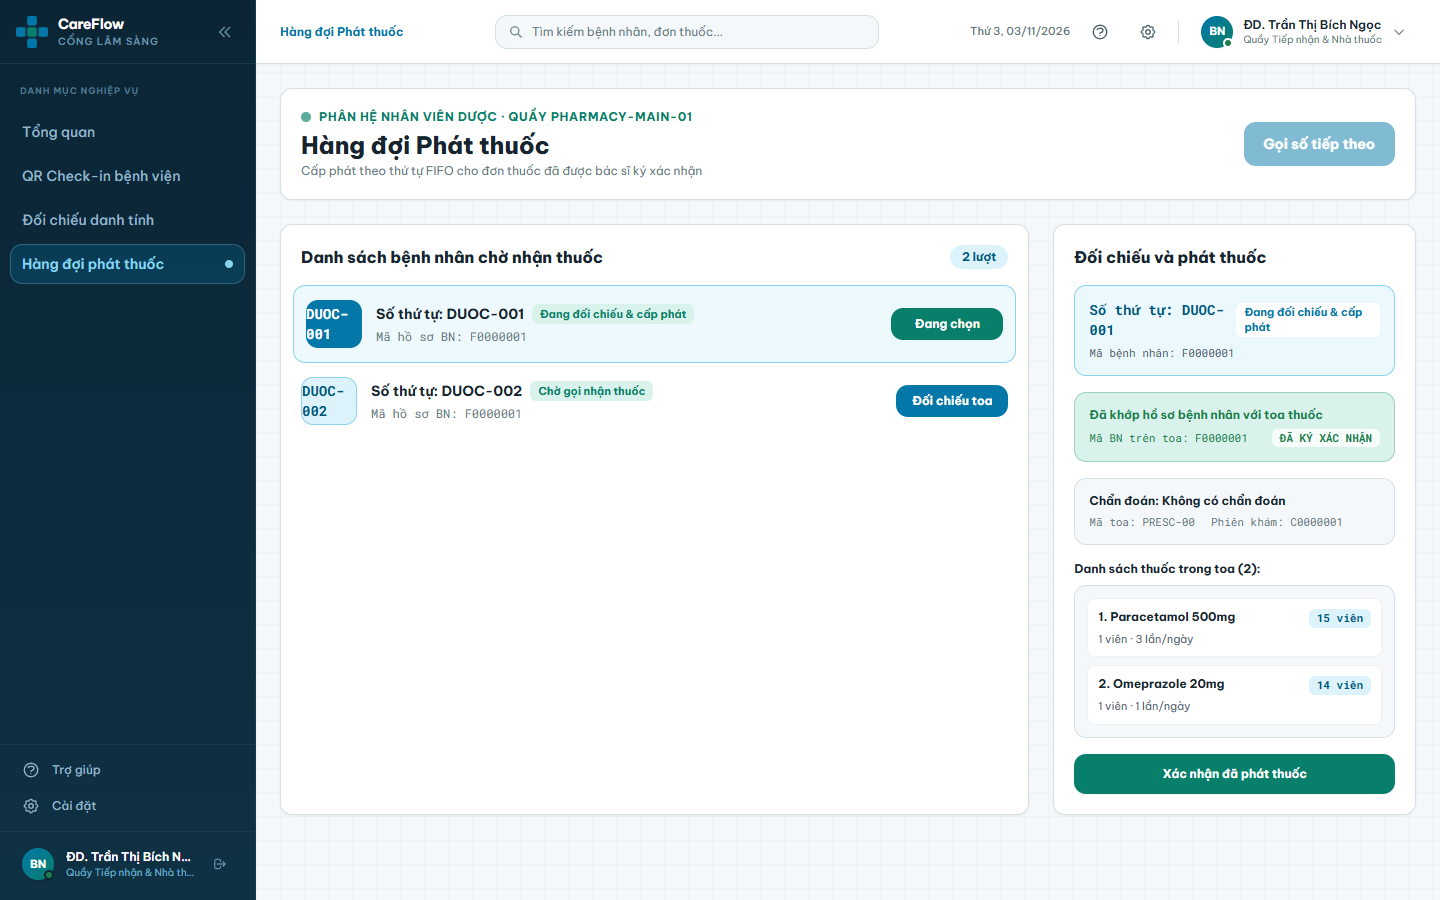
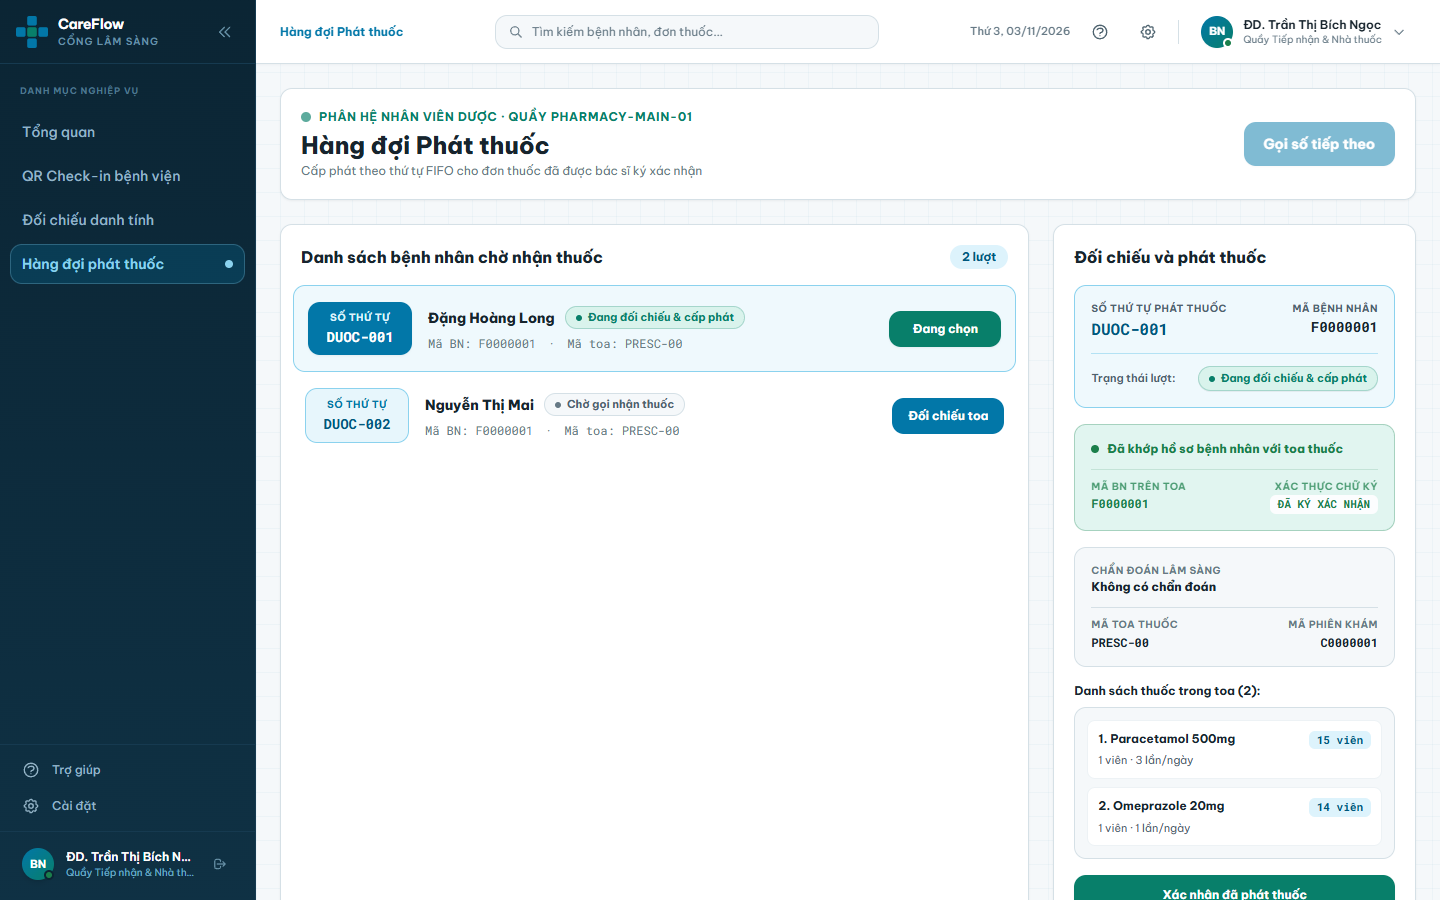
style(pharmacy): refine queue ticket badge and verification panel layout

diff --git a/frontend/doctor-web/src/components/queue/PharmacyVerificationPanel.tsx b/frontend/doctor-web/src/components/queue/PharmacyVerificationPanel.tsx
@@ -35,18 +35,51 @@ export default function PharmacyVerificationPanel({
       <h2 className="text-base font-extrabold text-[#17242D]">Đối chiếu và phát thuốc</h2>
       {activeEntry ? (
         <div className="space-y-4 text-xs">
-          <div className="rounded-xl border border-[#8BD2EE] bg-[#DDF3FC]/60 p-3.5">
-            <div className="flex items-center justify-between gap-2">
-              <p className="font-mono text-sm font-extrabold text-[#00577E]">
-                Số thứ tự: {activeEntry.queueNumber}
-              </p>
-              <span className="rounded-md bg-white px-2 py-0.5 text-[11px] font-bold text-[#0277A8]">
+          <div className="rounded-xl border border-[#8BD2EE] bg-[#DDF3FC]/45 p-4">
+            <div className="grid grid-cols-2 gap-3 border-b border-[#8BD2EE]/60 pb-3">
+              <div>
+                <p className="text-[10px] font-bold uppercase tracking-wider text-[#4D626E]">
+                  Số thứ tự phát thuốc
+                </p>
+                <p className="mt-0.5 font-mono text-base font-extrabold text-[#00577E] whitespace-nowrap">
+                  {activeEntry.queueNumber}
+                </p>
+              </div>
+              <div className="text-right">
+                <p className="text-[10px] font-bold uppercase tracking-wider text-[#4D626E]">
+                  Mã bệnh nhân
+                </p>
+                <p
+                  className="mt-0.5 font-mono text-sm font-extrabold text-[#17242D] whitespace-nowrap"
+                  title={activeEntry.patientId}
+                >
+                  {activeEntry.patientId.slice(0, 8).toUpperCase()}
+                </p>
+              </div>
+            </div>
+            <div className="mt-3 flex items-center justify-between gap-2">
+              <span className="text-[11px] font-semibold text-[#4D626E]">Trạng thái lượt:</span>
+              <span
+                className={`inline-flex items-center gap-1.5 rounded-full px-2.5 py-1 text-[11px] font-bold whitespace-nowrap shadow-2xs ${
+                  activeEntry.queueStatus === "IN_PROGRESS"
+                    ? "border border-[#087F6A]/25 bg-[#D9F3EC] text-[#087F6A]"
+                    : activeEntry.queueStatus === "CALLED"
+                      ? "border border-[#8BD2EE] bg-white text-[#0277A8]"
+                      : "border border-[#D5E0E6] bg-white text-[#4D626E]"
+                }`}
+              >
+                <span
+                  className={`h-1.5 w-1.5 rounded-full ${
+                    activeEntry.queueStatus === "IN_PROGRESS"
+                      ? "bg-[#087F6A]"
+                      : activeEntry.queueStatus === "CALLED"
+                        ? "bg-[#0277A8]"
+                        : "bg-[#667985]"
+                  }`}
+                />
                 {pharmacyStatusLabel(activeEntry.queueStatus)}
               </span>
             </div>
-            <p className="mt-1.5 font-mono text-[11px] text-[#4D626E]" title={activeEntry.patientId}>
-              Mã bệnh nhân: {activeEntry.patientId.slice(0, 8).toUpperCase()}
-            </p>
           </div>
 
           {isLoadingPrescription ? (
@@ -60,40 +93,81 @@ export default function PharmacyVerificationPanel({
           ) : activePrescription ? (
             <>
               <div
-                className={`rounded-xl border p-3.5 ${
+                className={`rounded-xl border p-4 ${
                   activePatientMatches
-                    ? "border-[#1B7F4B]/30 bg-[#D9F3EC] text-[#1B7F4B]"
+                    ? "border-[#1B7F4B]/30 bg-[#D9F3EC]/80 text-[#1B7F4B]"
                     : "border-[#BA1A1A]/30 bg-[#BA1A1A]/10 text-[#BA1A1A]"
                 }`}
               >
-                <p className="font-bold">
-                  {activePatientMatches
-                    ? "Đã khớp hồ sơ bệnh nhân với toa thuốc"
-                    : "Không khớp mã bệnh nhân"}
-                </p>
-                <div className="mt-1.5 flex flex-wrap items-center justify-between gap-2 text-[11px]">
-                  <span className="font-mono" title={activePrescription.patientId}>
-                    Mã BN trên toa: {activePrescription.patientId.slice(0, 8).toUpperCase()}
-                  </span>
-                  <span className="rounded-md bg-white/80 px-2 py-0.5 font-mono font-bold">
-                    {activePrescription.status === "CONFIRMED"
-                      ? "ĐÃ KÝ XÁC NHẬN"
-                      : activePrescription.status}
-                  </span>
+                <div className="flex items-center gap-2">
+                  <span
+                    className={`h-2 w-2 shrink-0 rounded-full ${
+                      activePatientMatches ? "bg-[#1B7F4B]" : "bg-[#BA1A1A]"
+                    }`}
+                  />
+                  <p className="font-extrabold">
+                    {activePatientMatches
+                      ? "Đã khớp hồ sơ bệnh nhân với toa thuốc"
+                      : "Cảnh báo: Không khớp mã bệnh nhân"}
+                  </p>
+                </div>
+                <div className="mt-3 grid grid-cols-2 gap-2 border-t border-current/15 pt-2.5">
+                  <div>
+                    <p className="text-[10px] font-bold uppercase tracking-wider opacity-75">
+                      Mã BN trên toa
+                    </p>
+                    <p
+                      className="mt-0.5 font-mono text-xs font-extrabold whitespace-nowrap"
+                      title={activePrescription.patientId}
+                    >
+                      {activePrescription.patientId.slice(0, 8).toUpperCase()}
+                    </p>
+                  </div>
+                  <div className="text-right">
+                    <p className="text-[10px] font-bold uppercase tracking-wider opacity-75">
+                      Xác thực chữ ký
+                    </p>
+                    <span className="mt-0.5 inline-block rounded-md bg-white/90 px-2 py-0.5 font-mono text-[11px] font-extrabold whitespace-nowrap">
+                      {activePrescription.status === "CONFIRMED"
+                        ? "ĐÃ KÝ XÁC NHẬN"
+                        : activePrescription.status}
+                    </span>
+                  </div>
                 </div>
               </div>
 
-              <div className="space-y-1.5 rounded-xl border border-[#D5E0E6] bg-[#F5F8FA] p-3.5">
-                <p className="font-bold text-[#17242D]">
-                  Chẩn đoán: {activePrescription.diagnosis || "Không có chẩn đoán"}
-                </p>
-                <div className="flex flex-wrap gap-x-4 gap-y-1 font-mono text-[11px] text-[#667985]">
-                  <span title={activePrescription.id}>
-                    Mã toa: {activePrescription.id.slice(0, 8).toUpperCase()}
-                  </span>
-                  <span title={activePrescription.consultationId}>
-                    Phiên khám: {activePrescription.consultationId.slice(0, 8).toUpperCase()}
-                  </span>
+              <div className="space-y-3 rounded-xl border border-[#D5E0E6] bg-[#F5F8FA] p-4">
+                <div>
+                  <p className="text-[10px] font-bold uppercase tracking-wider text-[#667985]">
+                    Chẩn đoán lâm sàng
+                  </p>
+                  <p className="mt-0.5 text-xs font-extrabold text-[#17242D]">
+                    {activePrescription.diagnosis || "Không có chẩn đoán"}
+                  </p>
+                </div>
+                <div className="grid grid-cols-2 gap-3 border-t border-[#D5E0E6] pt-2.5">
+                  <div>
+                    <p className="text-[10px] font-bold uppercase tracking-wider text-[#667985]">
+                      Mã toa thuốc
+                    </p>
+                    <p
+                      className="mt-0.5 font-mono text-xs font-bold text-[#17242D] whitespace-nowrap"
+                      title={activePrescription.id}
+                    >
+                      {activePrescription.id.slice(0, 8).toUpperCase()}
+                    </p>
+                  </div>
+                  <div className="text-right">
+                    <p className="text-[10px] font-bold uppercase tracking-wider text-[#667985]">
+                      Mã phiên khám
+                    </p>
+                    <p
+                      className="mt-0.5 font-mono text-xs font-bold text-[#17242D] whitespace-nowrap"
+                      title={activePrescription.consultationId}
+                    >
+                      {activePrescription.consultationId.slice(0, 8).toUpperCase()}
+                    </p>
+                  </div>
                 </div>
               </div>
 

diff --git a/frontend/doctor-web/src/app/(dashboard)/staff/pharmacy/page.tsx b/frontend/doctor-web/src/app/(dashboard)/staff/pharmacy/page.tsx
@@ -277,47 +277,85 @@ export default function StaffPharmacyPage() {
             <div className="divide-y divide-[#EDF2F5]">
               {(entries ?? []).map((entry) => {
                 const selected = activeEntry?.entryId === entry.entryId;
+                const isInProgress = entry.queueStatus === "IN_PROGRESS";
+                const isCalled = entry.queueStatus === "CALLED";
+
                 return (
                   <div
                     key={entry.entryId}
-                    className={`flex items-center justify-between gap-4 py-3.5 transition-colors ${
+                    className={`flex items-center justify-between gap-4 py-4 transition-colors ${
                       selected
-                        ? "-mx-2 rounded-xl border border-[#8BD2EE] bg-[#DDF3FC]/50 px-3"
-                        : ""
+                        ? "-mx-2 rounded-xl border border-[#8BD2EE] bg-[#DDF3FC]/45 px-3.5"
+                        : "px-1"
                     }`}
                   >
-                    <div className="flex min-w-0 items-center gap-3.5">
+                    <div className="flex min-w-0 items-center gap-4">
                       <div
-                        className={`flex h-12 w-14 shrink-0 items-center justify-center rounded-xl font-mono text-sm font-extrabold ${
+                        className={`flex min-w-[104px] shrink-0 flex-col items-center justify-center rounded-xl px-3.5 py-2 transition-colors ${
                           selected
-                            ? "bg-[#0277A8] text-white"
-                            : "border border-[#8BD2EE] bg-[#DDF3FC] text-[#00577E]"
+                            ? "bg-[#0277A8] text-white shadow-xs"
+                            : "border border-[#8BD2EE] bg-[#DDF3FC]/70 text-[#00577E]"
                         }`}
                       >
-                        {entry.queueNumber}
+                        <span
+                          className={`text-[10px] font-bold uppercase tracking-wider ${
+                            selected ? "text-[#DDF3FC]" : "text-[#0277A8]"
+                          }`}
+                        >
+                          Số thứ tự
+                        </span>
+                        <span className="mt-0.5 font-mono text-sm font-extrabold whitespace-nowrap">
+                          {entry.queueNumber}
+                        </span>
                       </div>
-                      <div className="min-w-0">
-                        <div className="flex flex-wrap items-center gap-2">
-                          <p className="text-sm font-bold text-[#17242D]">
-                            Số thứ tự: {entry.queueNumber}
+
+                      <div className="min-w-0 space-y-1.5">
+                        <div className="flex flex-wrap items-center gap-2.5">
+                          <p className="text-sm font-extrabold text-[#17242D] whitespace-nowrap">
+                            {entry.patientName
+                              ? entry.patientName
+                              : `Hồ sơ BN: ${entry.patientId.slice(0, 8).toUpperCase()}`}
                           </p>
-                          <span className="rounded-md bg-[#D9F3EC] px-2 py-0.5 text-[11px] font-bold text-[#087F6A]">
+                          <span
+                            className={`inline-flex items-center gap-1.5 rounded-full px-2.5 py-0.5 text-[11px] font-bold whitespace-nowrap ${
+                              isInProgress
+                                ? "border border-[#087F6A]/25 bg-[#D9F3EC] text-[#087F6A]"
+                                : isCalled
+                                  ? "border border-[#8BD2EE] bg-[#DDF3FC] text-[#00577E]"
+                                  : "border border-[#D5E0E6] bg-[#F5F8FA] text-[#4D626E]"
+                            }`}
+                          >
+                            <span
+                              className={`h-1.5 w-1.5 rounded-full ${
+                                isInProgress
+                                  ? "bg-[#087F6A]"
+                                  : isCalled
+                                    ? "bg-[#0277A8]"
+                                    : "bg-[#667985]"
+                              }`}
+                            />
                             {pharmacyStatusLabel(entry.queueStatus)}
                           </span>
                         </div>
-                        <p
-                          className="mt-1 font-mono text-xs text-[#667985]"
-                          title={entry.patientId}
-                        >
-                          Mã hồ sơ BN: {entry.patientId.slice(0, 8).toUpperCase()}
-                        </p>
+                        <div className="flex flex-wrap items-center gap-x-3 gap-y-1 font-mono text-xs text-[#667985]">
+                          <span title={entry.patientId}>
+                            Mã BN: {entry.patientId.slice(0, 8).toUpperCase()}
+                          </span>
+                          <span>·</span>
+                          <span title={entry.prescriptionId ?? undefined}>
+                            Mã toa:{" "}
+                            {entry.prescriptionId
+                              ? entry.prescriptionId.slice(0, 8).toUpperCase()
+                              : "Chưa liên kết"}
+                          </span>
+                        </div>
                       </div>
                     </div>
                     <button
                       onClick={() => setActiveEntry(entry)}
-                      className={`w-28 shrink-0 cursor-pointer rounded-xl py-2 text-center text-xs font-bold transition-colors ${
+                      className={`w-28 shrink-0 cursor-pointer rounded-xl py-2.5 text-center text-xs font-bold whitespace-nowrap transition-colors ${
                         selected
-                          ? "bg-[#087F6A] text-white"
+                          ? "bg-[#087F6A] text-white shadow-xs"
                           : "bg-[#0277A8] text-white hover:bg-[#00577E]"
                       }`}
                     >
